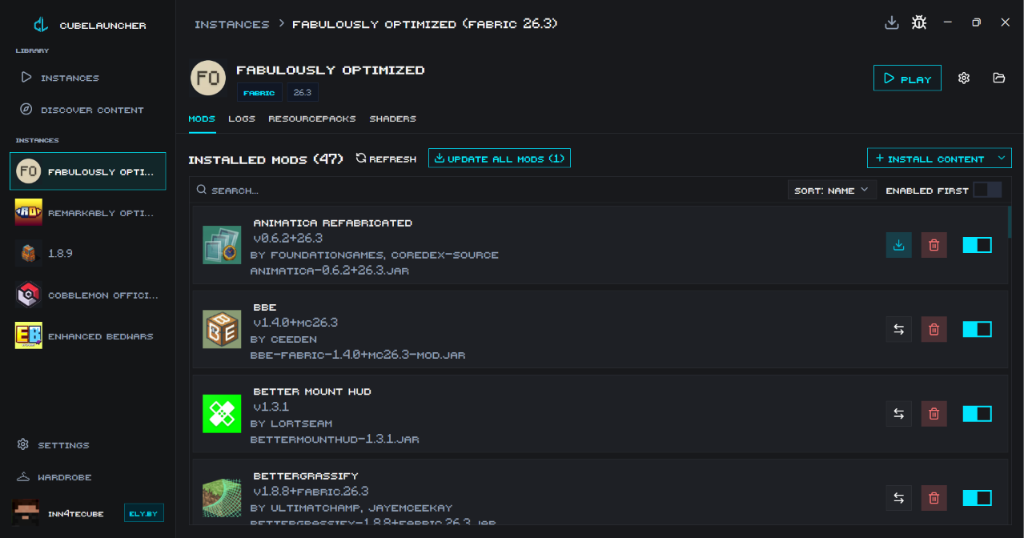
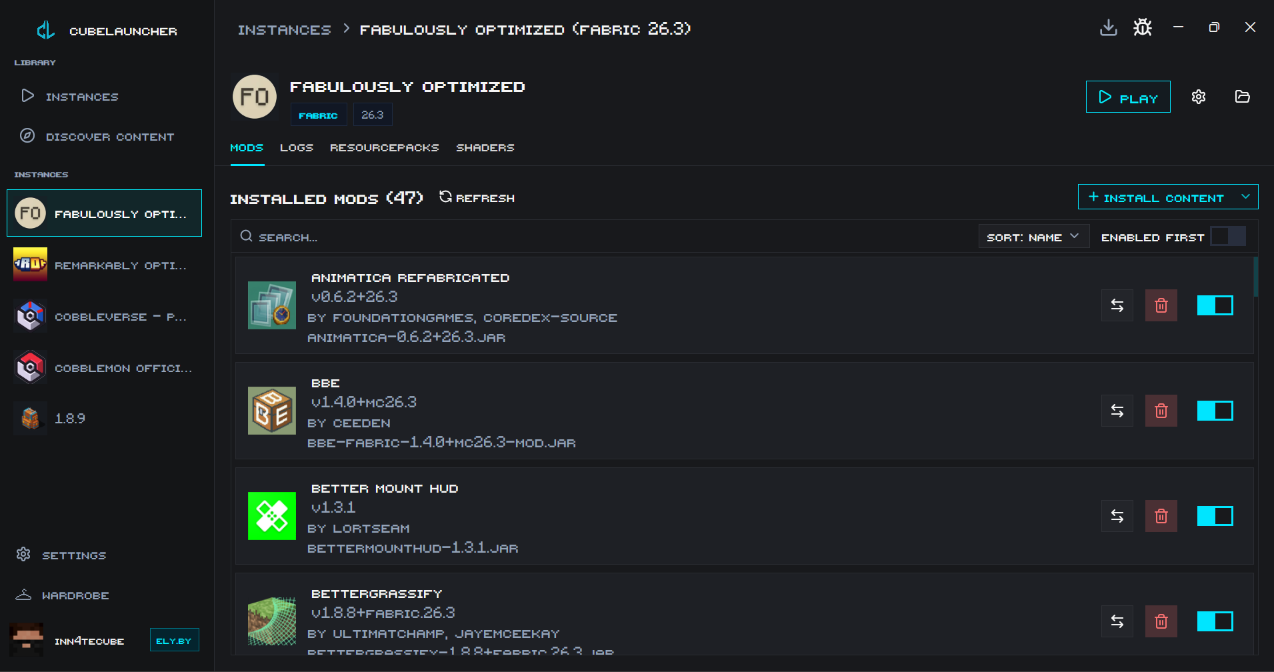
Fix instance refresh button requiring second press and update website preview screenshots

diff --git a/crates/frontend/src/pages/instance/content_subpage.rs b/crates/frontend/src/pages/instance/content_subpage.rs
@@ -317,39 +317,37 @@ impl Render for InstanceContentSubpage {
                     .gap_2()
                     .items_center()
                     .child(div().text_lg().font_weight(FontWeight::BOLD).child(title_text))
-                    .child(if self.is_checking_updates {
-                        Button::new("update_check")
-                            .icon(Spinner::new())
-                            .label("Checking...")
-                            .ghost()
-                            .compact()
-                            .small()
-                            .loading(true)
-                    } else {
+                    .child(
                         Button::new("update_check")
                             .icon(PandoraIcon::RefreshCcw)
-                            .label("Refresh")
+                            .label(if self.is_checking_updates { "Checking..." } else { "Refresh" })
+                            .loading(self.is_checking_updates)
                             .ghost()
                             .compact()
                             .small()
-                            .on_click({
+                            .when(!self.is_checking_updates, |this| {
                                 let backend_handle = self.backend_handle.clone();
                                 let instance_id = self.instance;
-                                cx.listener(move |this, _, window, cx| {
+                                this.on_click(cx.listener(move |this, _, window, cx| {
+                                    if this.is_checking_updates {
+                                        return;
+                                    }
                                     this.is_checking_updates = true;
                                     let action = crate::root::start_update_check(instance_id, &backend_handle, window, cx);
                                     let notify = action.get_notify();
                                     cx.spawn(async move |this, cx| {
-                                        notify.notified().await;
+                                        while action.get_finished_at().is_none() {
+                                            notify.notified().await;
+                                        }
                                         _ = this.update(cx, |this, cx| {
                                             this.is_checking_updates = false;
                                             cx.notify();
                                         });
                                     }).detach();
                                     cx.notify();
-                                })
+                                }))
                             })
-                    })
+                    )
                     .when(!self.needs_update_check && self.update_count > 0, |this| {
                         this.child(Button::new("update_all")
                             .label(match self.content_type {

diff --git a/crates/backend/src/backend_handler.rs b/crates/backend/src/backend_handler.rs
@@ -609,6 +609,13 @@ impl BackendState {
                     return;
                 };
 
+                // Ensure disk is rescanned fresh rather than returning stale cached summaries
+                if let Some(instance) = self.instance_state.write().instances.get_mut(id) {
+                    for content_folder in ContentFolder::iter() {
+                        instance.mark_content_dirty(self, content_folder, FolderChanges::all_dirty(), false);
+                    }
+                }
+
                 let mut content = Vec::new();
                 for folder in ContentFolder::iter() {
                     let Some(summaries) = Instance::load_content(self.clone(), id, folder).await else {
@@ -812,22 +819,23 @@ impl BackendState {
 
                 match results {
                     Ok(updates) => {
-                        let mut meta_updates = self.mod_metadata_manager.updates.write();
+                        { // Scope ensures the non-Send RwLockWriteGuard does not cross the await below
+                            let mut meta_updates = self.mod_metadata_manager.updates.write();
 
-                        for update in updates {
-                            meta_updates.insert(ContentUpdateKey {
-                                hash: update.mod_summary.hash,
-                                loader,
-                                version,
-                            }, update.action);
+                            for update in updates {
+                                meta_updates.insert(ContentUpdateKey {
+                                    hash: update.mod_summary.hash,
+                                    loader,
+                                    version,
+                                }, update.action);
+                            }
                         }
 
-                        drop(meta_updates);
-
-                        if let Some(instance) = self.instance_state.write().instances.get_mut(id) {
-                            for content_folder in ContentFolder::iter() {
-                                instance.mark_content_dirty(self, content_folder, FolderChanges::all_dirty(), true);
+                        for content_folder in ContentFolder::iter() {
+                            if let Some(instance) = self.instance_state.write().instances.get_mut(id) {
+                                instance.mark_content_dirty(self, content_folder, FolderChanges::all_dirty(), false);
                             }
+                            _ = Instance::load_content(self.clone(), id, content_folder).await;
                         }
                     },
                     Err(error) => {
